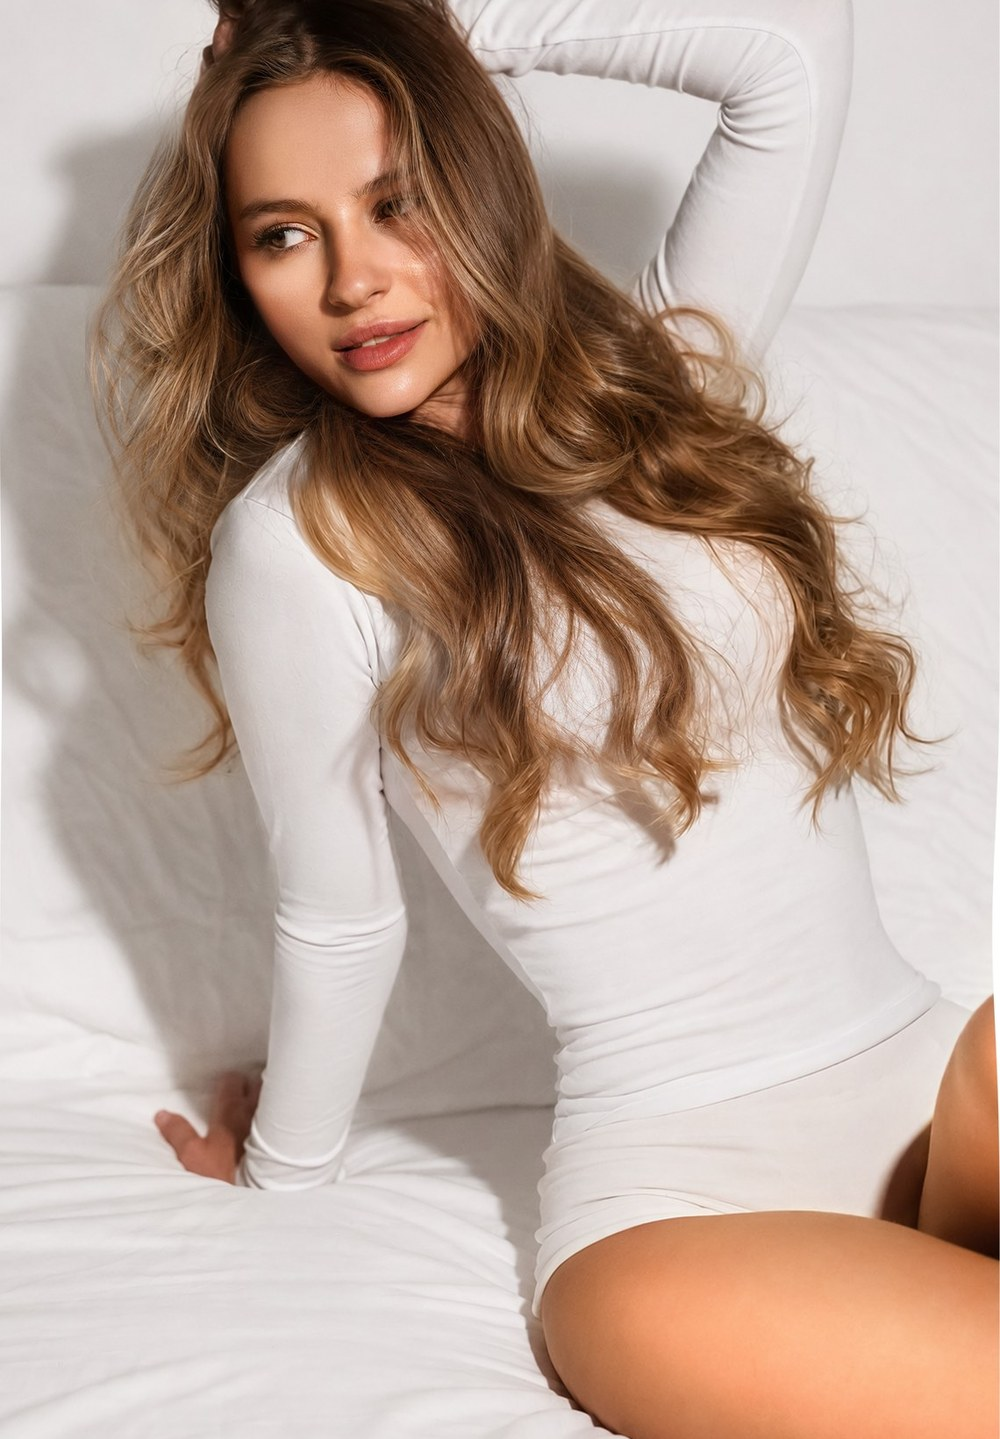
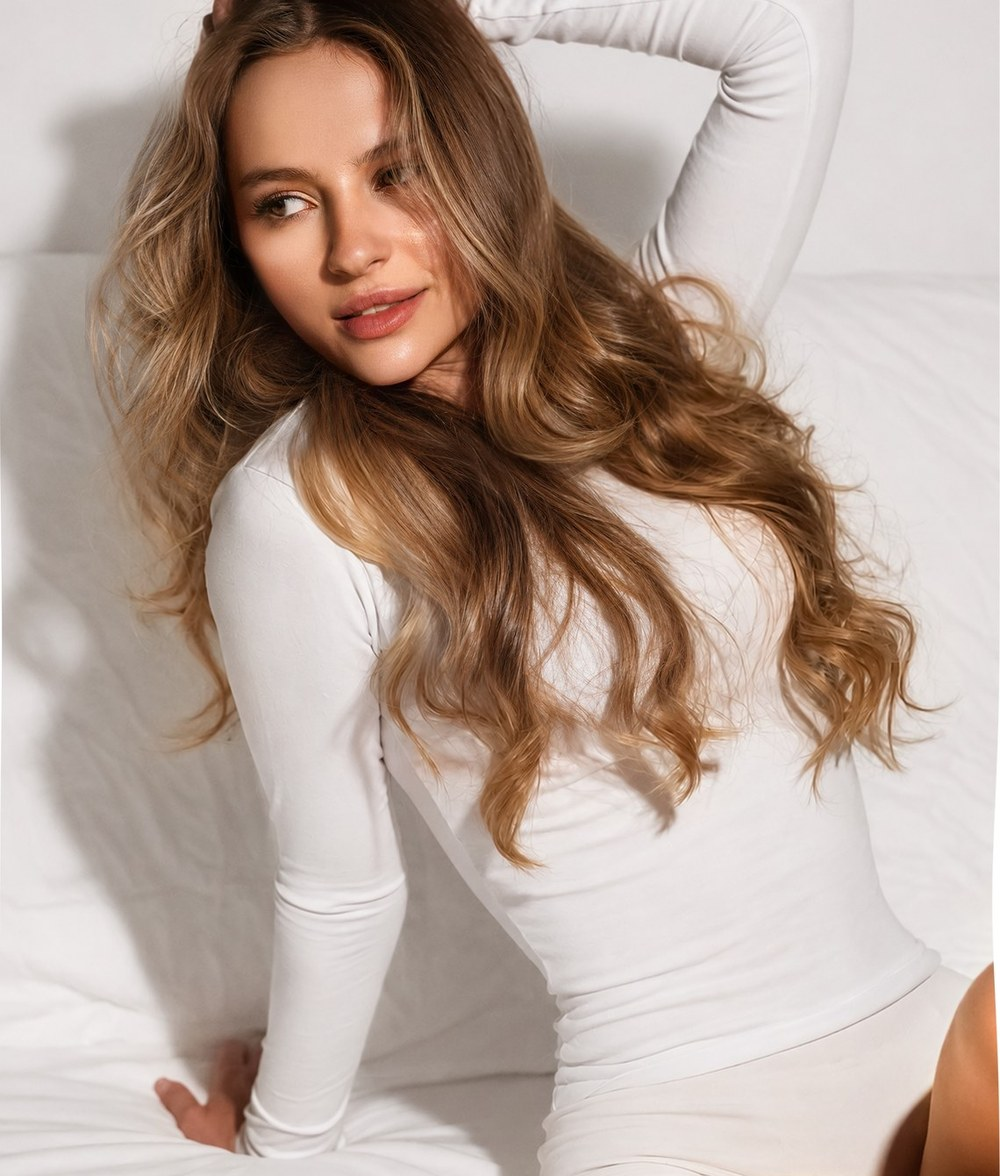
полотно короче и ближе к квадрату — 166 x 195 вместо 166 x 239; предел по высоте снимается под рукой, так что потянуть его на слова по-прежнему можно

diff --git a/index.html b/index.html
@@ -10,7 +10,7 @@
 <link rel="preconnect" href="https://fonts.gstatic.com" crossorigin>
 <link href="https://fonts.googleapis.com/css2?family=Inter:wght@400;500;600&display=swap&subset=cyrillic" rel="stylesheet">
 <link rel="preload" href="fonts/ak.woff2" as="font" type="font/woff2" crossorigin>
-<script src="cases.js?v=030128"></script>
+<script src="cases.js?v=030133"></script>
 <script src="https://cdn.jsdelivr.net/npm/lenis@1.3.21/dist/lenis.min.js"></script>
 <script src="https://cdn.jsdelivr.net/npm/gsap@3.13.0/dist/gsap.min.js"></script>
 <script src="https://cdn.jsdelivr.net/npm/gsap@3.13.0/dist/ScrollTrigger.min.js"></script>
@@ -179,7 +179,7 @@
      в 99 px от края вёрстки, верх в 189 px от верха окна. Пропорция держится
      на aspect-ratio, так что на любой ширине кадр тот же. */
   #cloth{position:absolute;right:5.02%;top:clamp(120px,16.5vh,230px);
-    width:29.44%;aspect-ratio:580/675;z-index:4;touch-action:none;
+    width:29.44%;aspect-ratio:166.2/195.5;z-index:4;touch-action:none;
     cursor:grab;-webkit-user-select:none;user-select:none;}
   #cloth.dragging{cursor:grabbing;}
   /* Холст в полтора раза больше своей коробки и смещён на четверть в каждую
@@ -833,7 +833,7 @@
     .op-role{position:absolute;left:14.93%;top:240.4px;margin:0;width:18.67%;z-index:3;}
     .op-role .sm{text-align:right;display:block;}
     #cloth{position:absolute;left:45.33%;right:auto;top:240.4px;
-      width:44.32%;aspect-ratio:166.2/239.1;margin:0;}
+      width:44.32%;aspect-ratio:166.2/195.5;margin:0;}
     /* Строки заявления стоят абсолютно на его отметках. В потоке последние
        три уезжали вниз на 3,6–4,3: у строки со сменяющимся словом своя
        высота строки, и она накапливалась. */
@@ -1116,7 +1116,7 @@
     <div class="m-copy"><span class="sm" data-goo data-fade>’26 © All Right Reserved</span></div>
 
     <div class="tailroom"></div>
-    <span id="buildStamp" style="display:none">BUILD 03.10 01:28</span>
+    <span id="buildStamp" style="display:none">BUILD 03.10 01:33</span>
   </section>
 
 </main>
@@ -3445,7 +3445,7 @@ import * as THREE from 'https://cdn.jsdelivr.net/npm/three@0.160.0/build/three.m
   /* Пропорция берётся с коробки, а не задаётся числом: так разметка и сцена
      не могут разойтись. Ширина делится на сбор — ткань садится по ширине на
      те же 10 %, и в коробку она приходит ровно его кадром. */
-  var AR = 166.2 / 239.1;            // пропорция коробки полотна из его макета
+  var AR = 166.2 / 195.5;            // полотно короче, ближе к квадрату
   var H = 1.0, W = AR;
 
   var renderer = new THREE.WebGLRenderer({canvas: canvas, antialias: !SMALL, alpha: true});
@@ -3716,10 +3716,14 @@ import * as THREE from 'https://cdn.jsdelivr.net/npm/three@0.160.0/build/three.m
     /* Жёсткий предел по высоте. Сколько ни подбирай тяжесть и плотность сетки,
        ткань всё равно вытягивалась — теперь ни один узел не может опуститься
        ниже своей коробки, и полотно не бывает длиннее её никогда. */
-    var LOW = -H / 2;
-    for(var q = 0; q < N; q++){
-      var q3 = q * 3 + 1;
-      if(pos[q3] < LOW){ pos[q3] = LOW; prev[q3] = LOW; }
+    /* Предел держит полотно в коробке, пока его не трогают. Под рукой он
+       снимается — тянуть вниз и закрывать слова можно, он просил именно так. */
+    if(grab < 0 && pullPow < 0.02){
+      var LOW = -H / 2;
+      for(var q = 0; q < N; q++){
+        var q3 = q * 3 + 1;
+        if(pos[q3] < LOW){ pos[q3] = LOW; prev[q3] = LOW; }
+      }
     }
   }
 
